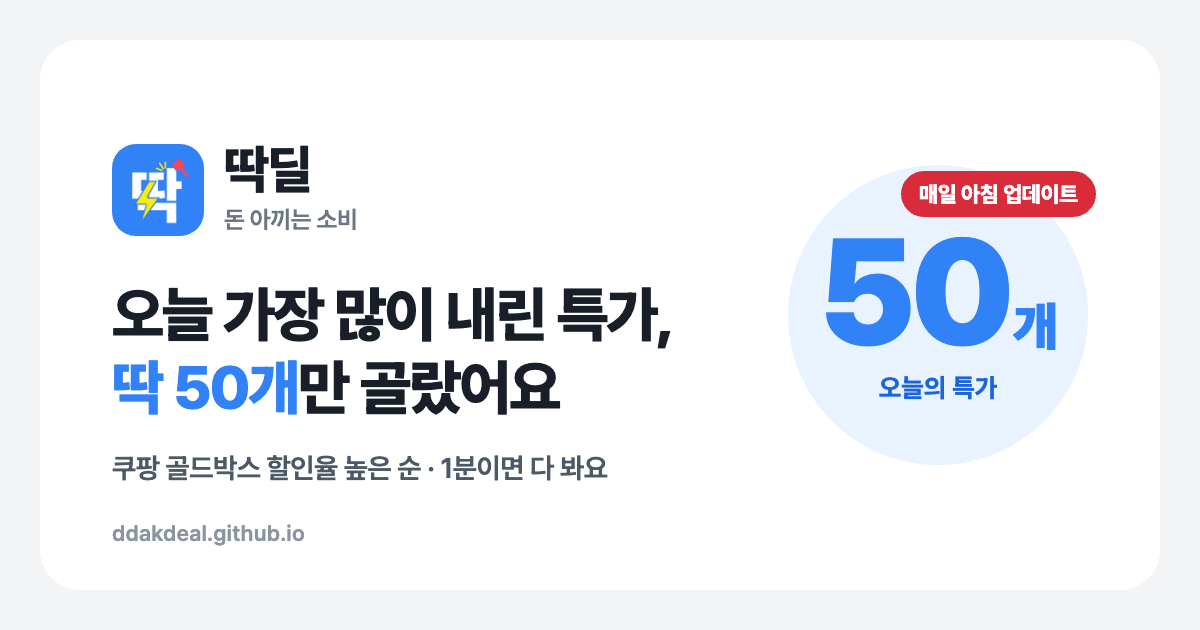
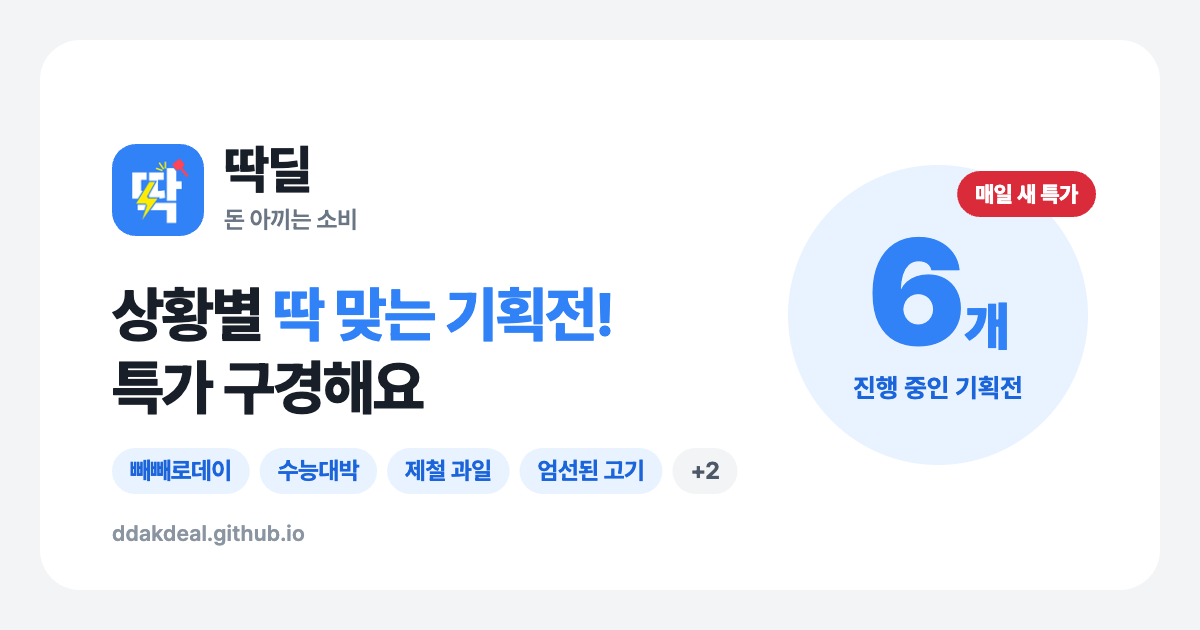
공유 미리보기를 진행 중인 기획전 이름이 들어가는 이미지로 변경(og-draw.js 추가)

diff --git a/index.html b/index.html
@@ -6,7 +6,7 @@
 <title>쿠팡 골드박스 오늘의 특가 50 | 할인율 높은 순 딱 50개 · 딱딜</title>
 <meta name="description" content="오늘 쿠팡 골드박스에서 할인율 높은 상품만 매일 아침 딱 50개 골라 정리했어요. 정가·할인가·할인율을 카테고리별로 한눈에 비교하고 자정 마감 전에 확인하세요.">
 <meta property="og:title" content="쿠팡 골드박스 오늘의 특가 50 · 딱딜">
-<meta property="og:description" content="매일 아침 쿠팡 골드박스에서 할인율 높은 상품만 딱 50개 골라 정리해요.">
+<meta property="og:description" content="빼빼로데이·수능대박·제철 과일 등 상황별 딱 맞는 기획전과 매일 아침 고른 쿠팡 특가 50개를 구경해요.">
 <link rel="canonical" href="https://ddakdeal.github.io/">
 <meta name="naver-site-verification" content="700e9b7c55401143675703c3e58054d0e559d647" />
 <meta name="robots" content="index,follow,max-image-preview:large">
@@ -18,11 +18,11 @@
 <link rel="sitemap" type="application/xml" href="/sitemap.xml">
 <script type="application/ld+json" id="ld">{"@context":"https://schema.org","@graph":[{"@type":"WebSite","@id":"https://ddakdeal.github.io/#site","name":"딱딜","url":"https://ddakdeal.github.io/","inLanguage":"ko-KR"},{"@type":"WebPage","@id":"https://ddakdeal.github.io/#page","url":"https://ddakdeal.github.io/","name":"쿠팡 골드박스 오늘의 특가 50","isPartOf":{"@id":"https://ddakdeal.github.io/#site"},"dateModified":"2026-11-07","inLanguage":"ko-KR"},{"@type":"ItemList","name":"쿠팡 골드박스 오늘의 특가 50개 (11월 7일 기준)","numberOfItems":50,"itemListOrder":"https://schema.org/ItemListOrderDescending","itemListElement":[{"@type":"ListItem","position":1,"name":"AHC 리뉴에이지 토탈 4종 + 아이크림 20ml 기프트 세트"},{"@type":"ListItem","position":2,"name":"테팔 프라이머리 양면 도마 세트, 1세트, 도마 M 2p + L + 거치대"},{"@type":"ListItem","position":3,"name":"윌코 2단 높이조절 360도 회전식 태블릿 거치대, 블랙, 1개, WS-1"},{"@type":"ListItem","position":4,"name":"에스엔피 골드 콜라겐 앰플 마스크, 1개입, 10개"},{"@type":"ListItem","position":5,"name":"유토렉스 국내제조 세라믹 히팅 건조기 가정용 면도기 거치 칫솔 살균기, UTC-5400B, 블랙"},{"@type":"ListItem","position":6,"name":"밀레 아동 볼패딩"},{"@type":"ListItem","position":7,"name":"휠라 JR 스쿠터 120, 네이비"},{"@type":"ListItem","position":8,"name":"새로미 애사비 소다, 24개, 500ml"},{"@type":"ListItem","position":9,"name":"아리얼 스트레스 릴리빙 퓨어풀 클렌징 티슈, 80매입, 4개"},{"@type":"ListItem","position":10,"name":"YINTO c타입 고속 충전기 25W PD3.0 PPS + C TO C 1.5M 100w 케이블 세트, 1세트, 핑크"},{"@type":"ListItem","position":11,"name":"바겐슈타이거 스텐 넛츠해머, 혼합색상"},{"@type":"ListItem","position":12,"name":"브리츠 우드 USB 데스크 2.0채널 PC 스피커, 화이트, BZ-N1"},{"@type":"ListItem","position":13,"name":"스빈또 NEW 스웨덴 수세미 100g, 1개입, 2개"},{"@type":"ListItem","position":14,"name":"티젠 콤부차 레몬, 5g, 30개입"},{"@type":"ListItem","position":15,"name":"리큐 진한겔 하이브리드 드럼세탁기용 액상세제 플로럴 부케향 리필, 2.1L, 4개"},{"@type":"ListItem","position":16,"name":"세노비스 New 트리플러스 오메가3 이뮨 우먼 멀티비타민, 80정"},{"@type":"ListItem","position":17,"name":"아웃도어프로덕츠 플리스 방한 넥워머, 브라운"},{"@type":"ListItem","position":18,"name":"UCLA 아동 주니어 트윌아치 로고 맨투맨 + 와이드팬츠 세트 UCRTX05"},{"@type":"ListItem","position":19,"name":"메트로시티 미니 버킷백 M251MQ2060Z"},{"@type":"ListItem","position":20,"name":"엔젯오리진 비타프레쉬 비타민 C&D 3000 꾸미, 70정, 2개"},{"@type":"ListItem","position":21,"name":"그린핑거 촉촉한 자연보습 베이비 로션, 500ml"},{"@type":"ListItem","position":22,"name":"시프이컴 PTC 미니 온풍기, CIF-FH04W, 우드"},{"@type":"ListItem","position":23,"name":"아이팔콘 4K UHD QLED TV, 43U65A Pro, 고객직접설치, 스탠드형, 109cm(43인치)"},{"@type":"ListItem","position":24,"name":"유니온천년알카리수, 500ml, 20개"},{"@type":"ListItem","position":25,"name":"신일 세라믹 히터, SEH-GD200CR, 화이트"},{"@type":"ListItem","position":26,"name":"통영직송 탱글한 통영 생굴, 1개, 1kg"},{"@type":"ListItem","position":27,"name":"달팽이리빙 퀴진드마망 냉장고 도어포켓 정리함, 투명, 8개"},{"@type":"ListItem","position":28,"name":"마녀공장 퓨어 클렌징 오일, 200ml"},{"@type":"ListItem","position":29,"name":"리빙공식 부착형 발난로 따뜻 핫팩 29.9g 2p, 30개"},{"@type":"ListItem","position":30,"name":"세브란스케어 구수한맛 완전균형 영양식, 200ml, 16개"},{"@type":"ListItem","position":31,"name":"라리사 쯔비벨무스터 티포크, 5개, 단품"},{"@type":"ListItem","position":32,"name":"리복 템포코어 운동화"},{"@type":"ListItem","position":33,"name":"케라시스 티트리 오일 샴푸, 1L"},{"@type":"ListItem","position":34,"name":"폰타나 시칠리아 페페론치노 아라비아따 파스타 토마토소스, 1.5kg"},{"@type":"ListItem","position":35,"name":"곰표한일 EMF 카본 탄소매트 전기장판 MSP-F75GY, 베이지그레이, 미니싱글(67.5 x 180 cm)"},{"@type":"ListItem","position":36,"name":"곰곰 곤약 konjac, 500g, 6개"},{"@type":"ListItem","position":37,"name":"남자 가을 세미 와이드 밴딩 슬랙스 팬츠"},{"@type":"ListItem","position":38,"name":"하이뮨 케어메이트 균형 당뇨식 저당, 200ml, 18개"},{"@type":"ListItem","position":39,"name":"브라운 오리지널 플러스 도톰한 엠보싱 저자극 아기 물티슈 캡형, 55g, 80매, 10개"},{"@type":"ListItem","position":40,"name":"휠라 방한 귀마개, 화이트"},{"@type":"ListItem","position":41,"name":"마더케이 젖병 건조대, 단품, 크림"},{"@type":"ListItem","position":42,"name":"릴리바이레드 쥬시 라이어 워터 립틴트, 02체리크러쉬인척"},{"@type":"ListItem","position":43,"name":"바이일이오 나이키 3켤레 2세트 에브리데이 쿠션 크루 삭스 스포츠 장목 양말 SX7664-100"},{"@type":"ListItem","position":44,"name":"완전두유 뼈건강엔 검은콩 고칼슘 두유, 190ml, 24개"},{"@type":"ListItem","position":45,"name":"비욘드 엔젤 아쿠아 포맨 올인원 에센스, 200ml, 2개"},{"@type":"ListItem","position":46,"name":"얼라이브 원스데일리 포 우먼 멀티비타민, 80정"},{"@type":"ListItem","position":47,"name":"얼라이브 원스데일리 포 맨 멀티비타민, 80정"},{"@type":"ListItem","position":48,"name":"자일렉 대용량 글라스 에어프라이어 5.5L, 화이트, ZL-264DA"},{"@type":"ListItem","position":49,"name":"라셀턴 토탈 솔루션, 1개, 1개입, 30ml"},{"@type":"ListItem","position":50,"name":"코멧 홈 어깨 뿔 방지 논슬립 옷걸이, 그레이, 30개"}]},{"@type":"FAQPage","mainEntity":[{"@type":"Question","name":"쿠팡 골드박스가 뭔가요?","acceptedAnswer":{"@type":"Answer","text":"쿠팡이 매일 정해진 상품을 하루 동안 할인해서 파는 특가 코너예요. 보통 당일 자정에 끝나고 다음 날 새 상품으로 바뀌어요."}},{"@type":"Question","name":"목록은 언제 업데이트되나요?","acceptedAnswer":{"@type":"Answer","text":"매일 아침 7시대에 그날 골드박스 상품을 할인율이 높은 순으로 딱 50개만 골라 바꿔요. 부담 없이 훑어볼 수 있게 개수를 50개로 정해뒀어요. 페이지 상단에 기준 날짜가 표시돼요."}},{"@type":"Question","name":"할인율은 어떻게 계산하나요?","acceptedAnswer":{"@type":"Answer","text":"쿠팡에 표시된 정가와 할인가로 계산해요. 정가는 판매자가 정한 가격이라, 할인율보다 최종 결제 금액과 1개당 가격을 함께 비교하는 걸 추천해요."}},{"@type":"Question","name":"'와우가'는 뭔가요?","acceptedAnswer":{"@type":"Answer","text":"'와우가' 표시가 붙은 가격은 쿠팡 와우 멤버십 회원에게 적용되는 할인가예요. 와우 회원이 아니면 이보다 비쌀 수 있으니 쿠팡에서 내 가격을 확인해 주세요."}},{"@type":"Question","name":"표시된 가격으로 살 수 있나요?","acceptedAnswer":{"@type":"Answer","text":"가격은 업데이트 시점 기준이에요. 품절되거나 가격이 바뀔 수 있으니 쿠팡 상품 페이지에서 최종 금액을 꼭 확인해 주세요."}}]}]}</script>
 <meta property="og:type" content="website">
-<meta property="og:image" content="https://ddakdeal.github.io/og-ddakdeal.png">
+<meta property="og:image" content="https://ddakdeal.github.io/og-ddakdeal.png?v=20261107">
 <meta property="og:image:width" content="1200">
 <meta property="og:image:height" content="630">
-<meta property="og:image:alt" content="딱딜 — 오늘 가장 많이 내린 쿠팡 특가, 딱 50개만 골랐어요">
-<meta name="twitter:image" content="https://ddakdeal.github.io/og-ddakdeal.png">
+<meta property="og:image:alt" content="딱딜 — 상황별 딱 맞는 기획전! 특가 구경해요 (빼빼로데이·수능대박·제철 과일·엄선된 고기·쌀쌀한 땐 수산물·김장 준비)">
+<meta name="twitter:image" content="https://ddakdeal.github.io/og-ddakdeal.png?v=20261107">
 <meta name="theme-color" content="#ffffff" media="(prefers-color-scheme: light)">
 <meta name="theme-color" content="#17171c" media="(prefers-color-scheme: dark)">
 <meta name="referrer" content="no-referrer-when-downgrade">

diff --git a/og-draw.js b/og-draw.js
@@ -1,0 +1,3 @@
+// 딱딜 공유 미리보기(OG) 이미지 생성기 (2026-11-07). 예약 작업이 매일 진행 중인 기획전 이름으로 og-ddakdeal.png를 다시 그린다.
+// 사용: ddakdeal.github.io 페이지에서 이 파일을 <script>로 불러온 뒤 await ddOG(ddOGNames()) → PNG dataURL. 기획전이 없으면 "오늘의 특가 50" 디자인.
+window.ddOG=async function(e,t){const l=(t=t||{}).font||"https://cdn.jsdelivr.net/npm/pretendard@1.3.9/dist/web/variable/woff2/PretendardVariable.woff2",n=t.fav||"https://ddakdeal.github.io/favicon.png";if(![...document.fonts].some((e=>"PretOG"===e.family))){const e=new FontFace("PretOG","url("+l+")",{weight:"100 900"});await e.load(),document.fonts.add(e)}await Promise.all(["600","700","800","900"].map((e=>document.fonts.load(e+" 40px PretOG"))));const i=new Image;i.crossOrigin="anonymous",i.src=n+(/^https?:/.test(n)&&!n.includes("?")?"?og=1":""),await i.decode();const o=document.createElement("canvas");o.width=1200,o.height=630;const a=o.getContext("2d"),r=(e,t,l)=>{a.font=t+" "+e+"px PretOG, sans-serif",a.letterSpacing=l+"px"},c=(e,t,l,n,i,o,c,f)=>(r(t,l,i),a.fillStyle=n,a.textAlign=f||"left",a.textBaseline="middle",a.fillText(e,o,c),a.measureText(e).width),f=(e,t,l,n)=>(r(t,l,n),a.measureText(e).width);a.fillStyle="#F2F4F6",a.fillRect(0,0,1200,630),a.fillStyle="#fff",a.beginPath(),a.roundRect(40,40,1120,550,40),a.fill(),a.save(),a.beginPath(),a.roundRect(112,144,92,92,24),a.clip(),a.imageSmoothingQuality="high",a.drawImage(i,112,144,92,92),a.restore(),c("딱딜",52,800,"#191F28",-1.5,224,173),c("돈 아끼는 소비",24,600,"#6B7684",-.3,224,220.5);const s=(e||[]).filter(Boolean);let d,g,h;if(s.length){let e=60;for(;e>44&&f("상황별 딱 맞는 기획전!",e,800,-2)>640;)e-=2;const t=c("상황별 ",e,800,"#191F28",-2,112,318.5);c("딱 맞는 기획전!",e,800,"#3182F6",-2,112+t,318.5),c("특가 구경해요",e,800,"#191F28",-2,112,391.5),r(24,700,-.4);let l=112;const n=448,i=46,o=18,u=10,m=[];for(let e=0;e<s.length;e++){const t=s.length-e-1,n=f(s[e],24,700,-.4)+2*o;if(l+n+(t>0?f("+"+t,24,700,-.4)+2*o+u:0)>752&&m.length)break;m.push([s[e],l,n]),l+=n+u}for(const[e,t,l]of m)a.fillStyle="#E8F3FF",a.beginPath(),a.roundRect(t,n,l,i,23),a.fill(),c(e,24,700,"#1B64DA",-.4,t+l/2,n+i/2+1,"center");const F=s.length-m.length;if(F>0){const e=f("+"+F,24,700,-.4)+2*o;a.fillStyle="#F2F4F6",a.beginPath(),a.roundRect(l,n,e,i,23),a.fill(),c("+"+F,24,700,"#4E5968",-.4,l+e/2,n+i/2+1,"center")}d=String(s.length),g="개",h="진행 중인 기획전"}else{c("오늘 가장 많이 내린 특가,",60,800,"#191F28",-2,112,318.5);const e=c("딱 50개",60,800,"#3182F6",-2,112,391.5);c("만 골랐어요",60,800,"#191F28",-2,112+e,391.5),c("쿠팡 골드박스 할인율 높은 순 · 1분이면 다 봐요",28,600,"#4E5968",-.5,112,470),d="50",g="개",h="오늘의 특가"}a.fillStyle="#E8F3FF",a.beginPath(),a.arc(938,315,150,0,2*Math.PI),a.fill();const u=f(d,150,900,-6),m=938-(u+(f(g,52,900,-1)+4))/2;a.textBaseline="alphabetic",a.textAlign="left",a.fillStyle="#3182F6",r(150,900,-6),a.fillText(d,m,345),r(52,900,-1),a.fillText(g,m+u+4,345),c(h,26,700,"#1B64DA",0,938,389.5,"center");const F=s.length?"매일 새 특가":"매일 아침 업데이트",p=f(F,22,800,-.3)+36;return a.fillStyle="#D92B3A",a.beginPath(),a.roundRect(1096-p,171,p,46,23),a.fill(),c(F,22,800,"#fff",-.3,1096-p/2,195,"center"),c("ddakdeal.github.io",22,600,"#8B95A1",.2,112,534),o.toDataURL("image/png")},window.ddOGNames=function(e){return[...(e=e||document).querySelectorAll("section.pep-sec")].filter((e=>!e.hidden&&e.querySelector(".pcard"))).map((e=>(e.querySelector("h2")?.textContent||"").replace(/\s*기획전\s*$/,"").trim())).filter(Boolean)};
